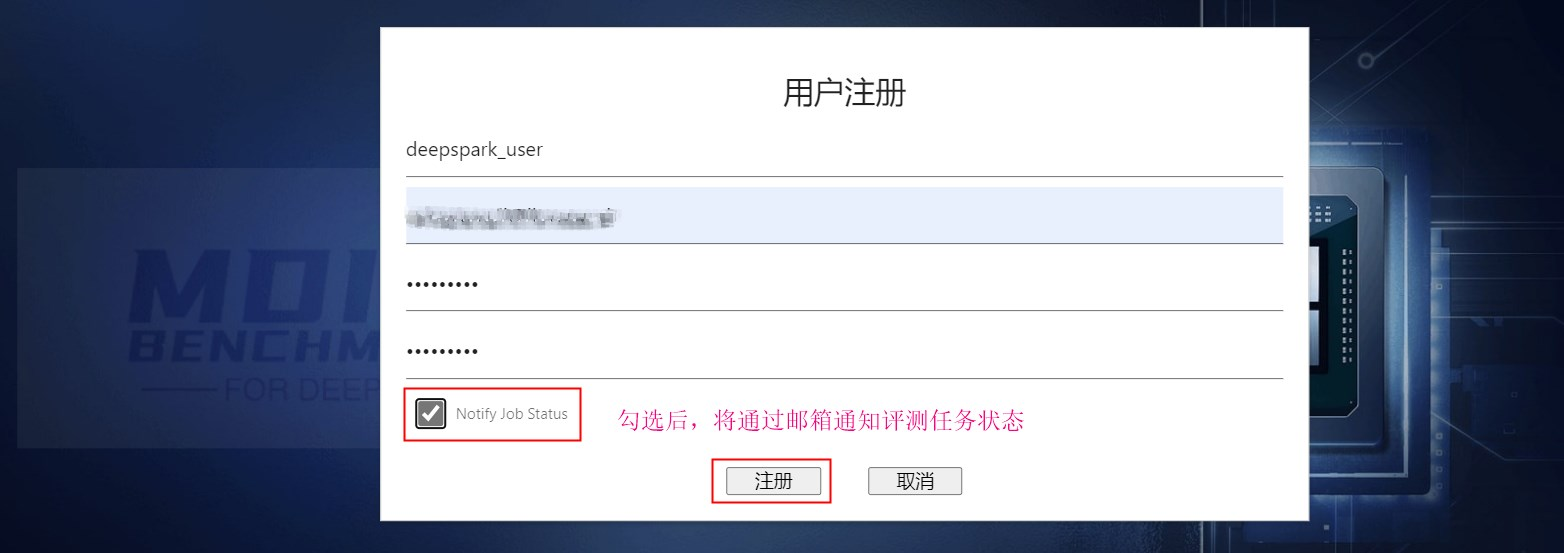
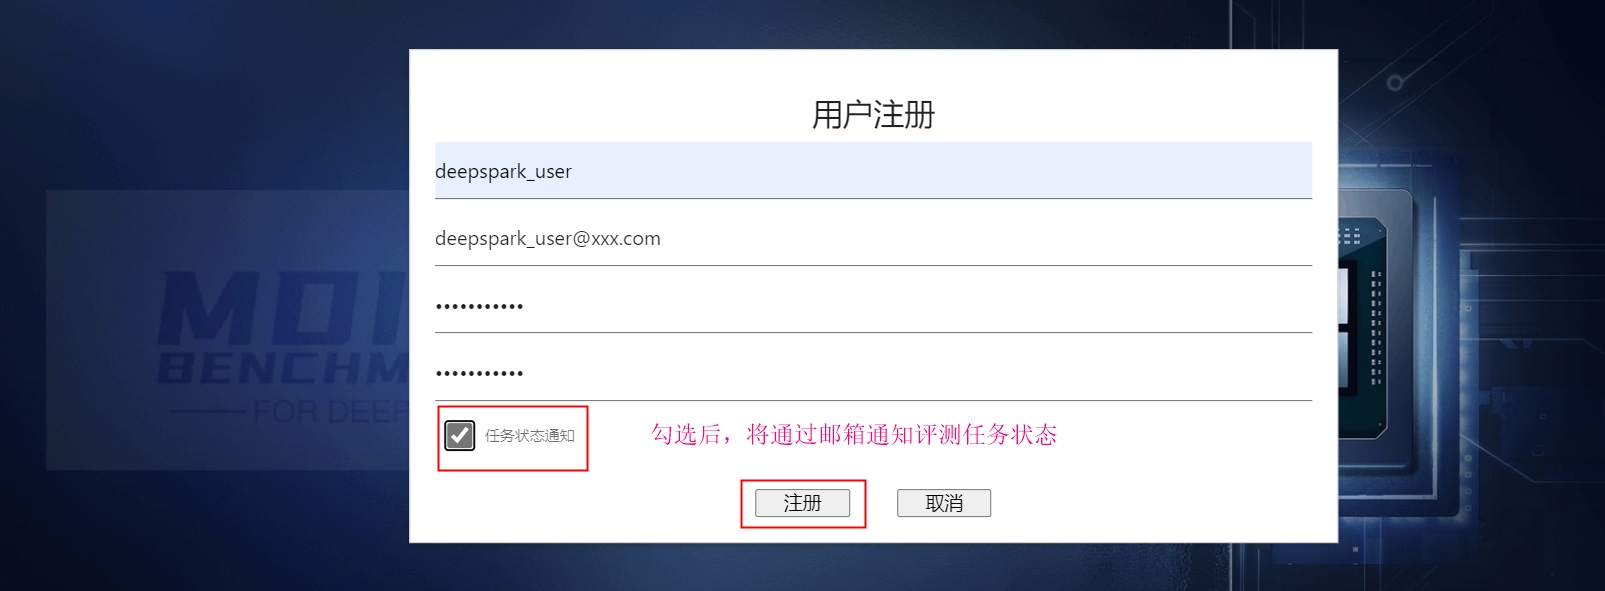
update mdims latest docs

Changed region(s): [[0.2455, 0.0307, 0.9514, 0.9837], [0.491, 0.123, 0.5831, 0.2152]]

diff --git a/evaluation/Iluvatar/Mdims-benchmark.md b/evaluation/Iluvatar/Mdims-benchmark.md
@@ -13,11 +13,11 @@
 
 ### Step 1：新用户首次使用多维度评测社区版，需要先进行用户注册
 
-![mdb_user_reg1](assets/mdb_user_reg1.jpg)
+![mdb_user_reg1](assets/mdb_user_reg1.png)
 
 ### Step 2：填写如下“用户注册”表单，建议勾选“任务状态通知”单选框
 
-![mdb_user_reg2](assets/mdb_user_reg2.jpg)
+![mdb_user_reg2](assets/mdb_user_reg2.png)
 
 ### Step 3：完成用户注册后可登录该用户体验多维度评测社区版
 
